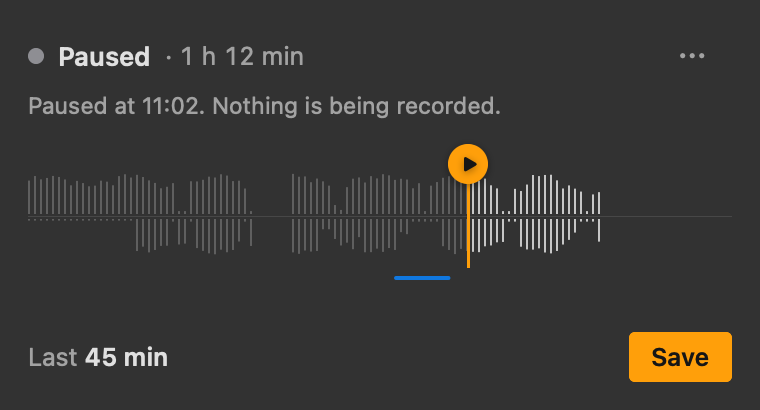
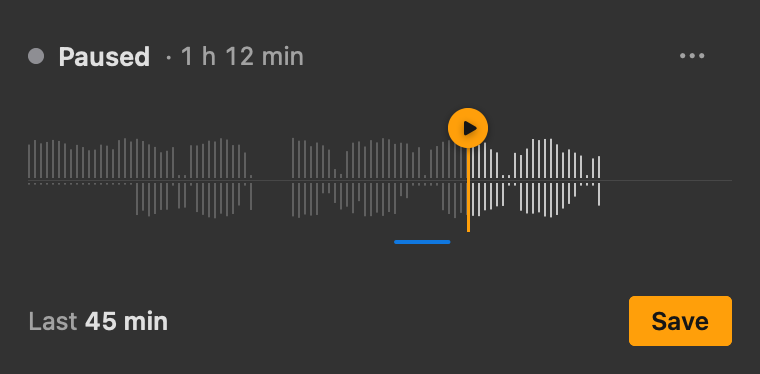
Popover: drop the new-tape hint and the redundant paused line

diff --git a/Sources/Tapeloop/AppController.swift b/Sources/Tapeloop/AppController.swift
@@ -245,12 +245,11 @@
                     timeline: timeline,
                     isPaused: status.isPaused)
             } else if status.isPaused || !status.isRecording {
-                let since = pausedAt.map { "Paused at \(Self.time($0)). " } ?? ""
+                // The header says Paused; a line only explains a pause the user did not make.
                 state = PopoverState(
                     status: .paused, title: "Paused", stat: kept,
                     subtitle: suspendReasons.isEmpty || status.isPaused
-                        ? "\(since)Nothing is being recorded."
-                        : "Recording pauses while the Mac sleeps or the screen is locked.",
+                        ? nil : "Recording pauses while the Mac sleeps or the screen is locked.",
                     timeline: timeline, isPaused: status.isPaused)
             } else if status.bytesOnDisk > 0 {
                 let ramPart = held * Double(status.bytesInRAM) / Double(max(1, status.bytesInRAM + status.bytesOnDisk))
@@ -260,14 +259,7 @@
                         "The older \(DurationText.long(held - ramPart)) is on disk and is erased when Tapeloop quits.",
                     timeline: timeline)
             } else {
-                // A hint only while the tape is new; after that the header is a single line.
-                let subtitle: String? =
-                    held < 600
-                    ? "Started at \(Self.time(status.range?.start ?? now)). Keeps up to \(DurationText.long(settings.recorder.bufferDuration)); older audio is dropped as new audio arrives."
-                    : nil
-                state = PopoverState(
-                    status: .recording, title: "Recording", stat: kept, subtitle: subtitle,
-                    timeline: timeline)
+                state = PopoverState(status: .recording, title: "Recording", stat: kept, timeline: timeline)
             }
             if state.banner == nil, let meeting = ongoingMeeting {
                 let minutes = DurationText.long(now.timeIntervalSince(meeting.start))

diff --git a/Sources/TapeloopUI/Samples.swift b/Sources/TapeloopUI/Samples.swift
@@ -71,7 +71,6 @@
             saving.saving = .init(label: "Saving 1 h 00 min…", progress: 0.64)
             var paused = PopoverState(
                 status: .paused, title: "Paused", stat: "1 h 12 min",
-                subtitle: "Paused at 11:02. Nothing is being recorded.",
                 timeline: timeline(gaps: [(0.317, 0.375), (0.82, 1)], meetings: [(0.52, 0.6, nil)]), isPaused: true)
             paused.timeline.lanes = paused.timeline.lanes.map { lane in
                 var lane = lane
@@ -80,7 +79,6 @@
             }
             let started = PopoverState(
                 status: .recording, title: "Recording", stat: "4 min",
-                subtitle: "Started at 11:20. Keeps up to 2 hours; older audio is dropped as new audio arrives.",
                 timeline: timeline(hours: 0.25, held: 240, gaps: []))
             let permission = PopoverState(
                 status: .needsAttention, title: "System audio is not being recorded",

diff --git a/docs/TESTING.md b/docs/TESTING.md
@@ -200,10 +200,9 @@ item, and write down anything unexpected with the time, so it can be found in th
 
 ### 3.2 Popover states
 
-- [ ] **Just started:** "Recording to memory", subtitle "Started at … Keeps up to 2 h …", the stat shows the held
-      time and the memory used.
-- [ ] **Recording** after 10 minutes: subtitle "Nothing is written to disk until you save."
-- [ ] **Paused:** the icon dot turns grey; title "Paused", "Paused at HH:MM. Nothing is being recorded."
+- [ ] **Recording:** a red dot, "Recording · 4 min" (the time held), and no line under it.
+- [ ] **Paused:** the icon dot turns grey; title "Paused" and no line under it. (Paused by sleep or a locked screen:
+      one line says so.)
 - [ ] **Needs permission:** with the microphone denied, the icon shows a red ring and a red banner explains it, with
       **Open System Settings** and **Record system audio only**.
 - [ ] **Meeting:** during a call, a blue banner "Zoom meeting · started …" with **Save meeting**.
